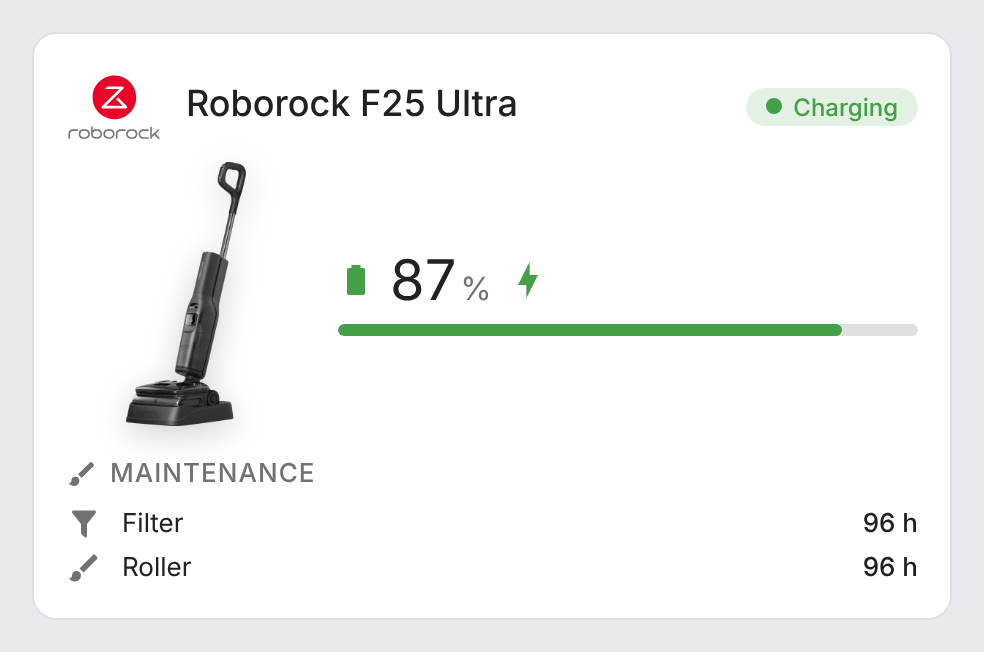
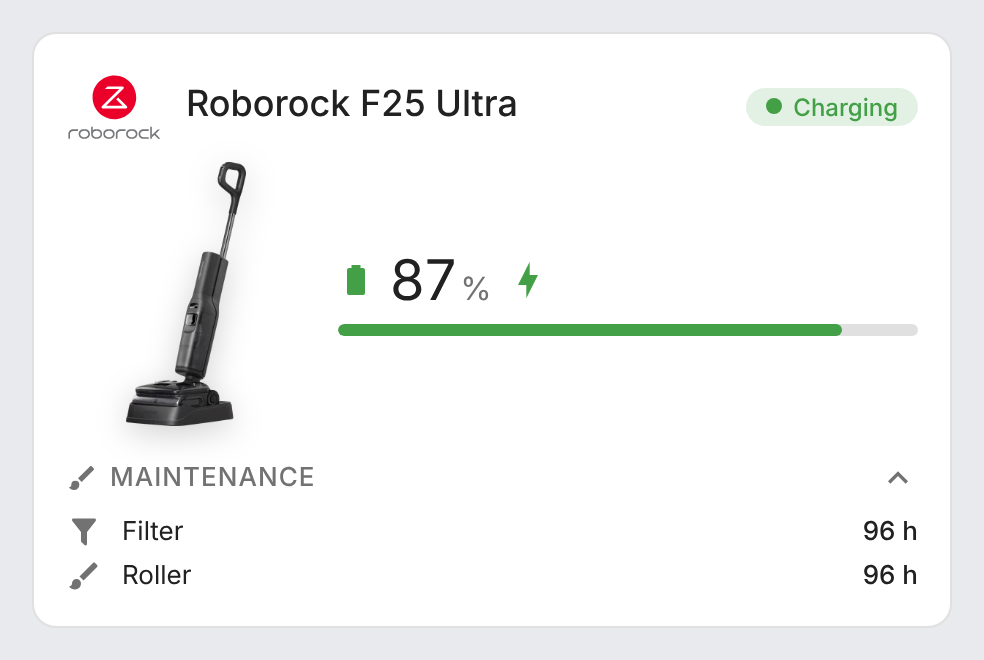
Collapsible sections, statistics and dock folded by default
Release 1.3.0.

Claude-Session: https://claude.ai/code/session_01BR93mfbPRnuFtK94DdtmVn

diff --git a/dist/roborock-card.js b/dist/roborock-card.js
@@ -7,7 +7,7 @@
  * device), so they work whatever the Home Assistant language or entity ids.
  */
 
-const VERSION = "1.2.2";
+const VERSION = "1.3.0";
[1 lines of base64/hex data omitted]
 const IMAGES = {
[1 lines of base64/hex data omitted]
@@ -15,6 +15,7 @@ const IMAGES = {
 };
 const ROBOROCK_SITE = "https://www.roborock.com";
 const PENDING_MS = 45000;
+const DEFAULT_COLLAPSED = ["stats", "dock"];
 
 const ICONS = {
   play: "M8,5.14V19.14L19,12.14L8,5.14Z",
@@ -50,6 +51,8 @@ const ICONS = {
   stats: "M22,21H2V3H4V19H6V10H10V19H12V6H16V19H18V14H22V21Z",
   map: "M15,19L9,16.89V5L15,7.11M20.5,3C20.44,3 20.39,3 20.34,3L15,5.1L9,3L3.36,4.9C3.15,4.97 3,5.15 3,5.38V20.5A0.5,0.5 0 0,0 3.5,21C3.55,21 3.61,21 3.66,20.97L9,18.9L15,21L20.64,19.1C20.85,19 21,18.85 21,18.62V3.5A0.5,0.5 0 0,0 20.5,3Z",
   alert: "M13 14H11V9H13M13 18H11V16H13M1 21H23L12 2L1 21Z",
+  chevron_down: "M7.41,8.58L12,13.17L16.59,8.58L18,10L12,16L6,10L7.41,8.58Z",
+  chevron_up: "M7.41,15.41L12,10.83L16.59,15.41L18,14L12,8L6,14L7.41,15.41Z",
   reset: "M12,4C14.1,4 16.1,4.8 17.6,6.3C20.7,9.4 20.7,14.5 17.6,17.6C15.8,19.5 13.3,20.2 10.9,19.9L11.4,17.9C13.1,18.1 14.9,17.5 16.2,16.2C18.5,13.9 18.5,10.1 16.2,7.7C15.1,6.6 13.5,6 12,6V10.6L7,5.6L12,0.6V4M6.3,17.6C3.7,15 3.3,11 5.1,7.9L6.6,9.4C5.5,11.6 5.9,14.4 7.8,16.2C8.3,16.7 8.9,17.1 9.6,17.4L9,19.4C8,19 7.1,18.4 6.3,17.6Z",
 };
 
@@ -126,6 +129,7 @@ const STRINGS = {
     show_consumables: "Show maintenance",
     show_stats: "Show statistics",
     show_map: "Show map",
+    collapsed: "Sections folded by default",
     crop: "Map crop (pixels)",
     map_size: "Map image size: {w} × {h} px. Values are in pixels of this image.",
     top: "Top",
@@ -268,6 +272,7 @@ const STRINGS = {
     show_consumables: "Afficher l'entretien",
     show_stats: "Afficher les statistiques",
     show_map: "Afficher la carte",
+    collapsed: "Sections repliées par défaut",
     crop: "Recadrage de la carte (pixels)",
     map_size: "Taille de l'image de la carte : {w} × {h} px. Les valeurs sont en pixels de cette image.",
     top: "Haut",
@@ -635,6 +640,13 @@ class RoborockBase extends HTMLElement {
     const { action, entity, label } = el.dataset;
     if (this._roomAction(action, entity, el.dataset.room)) return;
     if (action === "zoom_map") return this._zoomMap(entity);
+    if (action === "toggle_section") {
+      const key = el.dataset.section;
+      this._toggled = new Set(this._toggled);
+      if (this._toggled.has(key)) this._toggled.delete(key);
+      else this._toggled.add(key);
+      return this._update();
+    }
     if (action === "dock_toggle") {
       const on = this._isOn(entity);
       this._setPending(entity, on ? "off" : "on");
@@ -893,6 +905,9 @@ const FULL_STYLE = `
   .section-title { display: flex; align-items: center; gap: 6px; font-size: 13px; font-weight: 500; text-transform: uppercase;
                    letter-spacing: .04em; color: var(--secondary-text-color); margin-bottom: 8px; }
   .section-title .icon { width: 16px; height: 16px; }
+  .section-title.toggle { cursor: pointer; user-select: none; }
+  .section-title.toggle[aria-expanded="false"] { margin-bottom: 0; }
+  .section-title .chevron { margin-left: auto; width: 20px; height: 20px; }
   .routines { display: flex; flex-wrap: wrap; gap: 8px; }
   .routines .btn { font-weight: 400; padding: 6px 12px 6px 8px; }
   .routines .btn .icon { color: var(--rr-red); }
@@ -1032,11 +1047,34 @@ class RoborockCard extends RoborockBase {
     });
     items.sort((a, b) => a.name.localeCompare(b.name));
     return `<div>
-      <div class="section-title">${svgIcon(ICONS.routine)}${esc(this._t("routines"))}</div>
-      <div class="routines">${items
-        .map((r) => `<button class="btn" data-action="routine" data-entity="${r.id}" data-label="${esc(r.name)}">${svgIcon(ICONS.routine)}<span>${esc(r.name)}</span></button>`)
-        .join("")}</div>
+      ${this._sectionTitle("routines", ICONS.routine, this._t("routines"))}
+      ${
+        this._isCollapsed("routines")
+          ? ""
+          : `<div class="routines">${items
+              .map((r) => `<button class="btn" data-action="routine" data-entity="${r.id}" data-label="${esc(r.name)}">${svgIcon(ICONS.routine)}<span>${esc(r.name)}</span></button>`)
+              .join("")}</div>`
+      }
     </div>`;
+  }
+
+  // Collapsible sections: `collapsed` lists the sections folded by default (stats and dock unless
+  // set); a click on a section title folds or unfolds it for this card until the page is reloaded.
+  _isCollapsed(key) {
+    if (this._toggled?.has(key)) return !this._defaultCollapsed(key);
+    return this._defaultCollapsed(key);
+  }
+
+  _defaultCollapsed(key) {
+    const c = this._config.collapsed ?? DEFAULT_COLLAPSED;
+    return (Array.isArray(c) ? c : [c]).includes(key);
+  }
+
+  _sectionTitle(key, icon, label) {
+    const closed = this._isCollapsed(key);
+    return `<div class="section-title toggle" data-action="toggle_section" data-section="${key}" aria-expanded="${!closed}">${svgIcon(icon)}${esc(
+      label
+    )}${svgIcon(closed ? ICONS.chevron_down : ICONS.chevron_up, "chevron")}</div>`;
   }
 
   _tile(id, icon, label, value, cls = "") {
@@ -1072,9 +1110,8 @@ class RoborockCard extends RoborockBase {
     const actions = this._dockActions(dev);
     if (!tiles.length && !actions) return "";
     return `<div>
-      <div class="section-title">${svgIcon(ICONS.dock)}${esc(this._t("station"))}</div>
-      ${tiles.length ? `<div class="tiles">${tiles.join("")}</div>` : ""}
-      ${actions}
+      ${this._sectionTitle("dock", ICONS.dock, this._t("station"))}
+      ${this._isCollapsed("dock") ? "" : `${tiles.length ? `<div class="tiles">${tiles.join("")}</div>` : ""}${actions}`}
     </div>`;
   }
 
@@ -1125,8 +1162,8 @@ class RoborockCard extends RoborockBase {
     }
     if (!rows.length) return "";
     return `<div>
-      <div class="section-title">${svgIcon(ICONS.brush)}${esc(this._t("consumables"))}</div>
-      <div class="cons ${resets ? "with-reset" : ""}">${rows.join("")}</div>
+      ${this._sectionTitle("consumables", ICONS.brush, this._t("consumables"))}
+      ${this._isCollapsed("consumables") ? "" : `<div class="cons ${resets ? "with-reset" : ""}">${rows.join("")}</div>`}
     </div>`;
   }
 
@@ -1162,8 +1199,8 @@ class RoborockCard extends RoborockBase {
     if (valid(tTime) && num(tTime)) tiles.push(this._tile(tTime.entity_id, ICONS.clock, this._t("total_time"), fmtHours(hours(tTime))));
     if (!tiles.length) return "";
     return `<div>
-      <div class="section-title">${svgIcon(ICONS.stats)}${esc(this._t("statistics"))}</div>
-      <div class="tiles two">${tiles.join("")}</div>
+      ${this._sectionTitle("stats", ICONS.stats, this._t("statistics"))}
+      ${this._isCollapsed("stats") ? "" : `<div class="tiles two">${tiles.join("")}</div>`}
     </div>`;
   }
 
@@ -1403,7 +1440,7 @@ class RoborockEditorBase extends HTMLElement {
             v = config[k] = { ...v };
             for (const [sk, sv] of Object.entries(v)) if (sv === "" || sv === undefined || sv === null || sv === 0) delete v[sk];
             if (!Object.keys(v).length) delete config[k];
-          } else if (v === "" || v === undefined || v === null || (k in defaults && v === defaults[k])) delete config[k];
+          } else if (v === "" || v === undefined || v === null || (k in defaults && JSON.stringify(v) === JSON.stringify(defaults[k]))) delete config[k];
         }
         this._config = config;
         this.dispatchEvent(new CustomEvent("config-changed", { detail: { config }, bubbles: true, composed: true }));
@@ -1453,7 +1490,7 @@ class RoborockCardEditor extends RoborockEditorBase {
   }
 
   static get selects() {
-    return { show_map: "cleaning" };
+    return { show_map: "cleaning", collapsed: DEFAULT_COLLAPSED };
   }
 
   static extraFields(tr) {
@@ -1464,6 +1501,21 @@ class RoborockCardEditor extends RoborockEditorBase {
           select: {
             mode: "dropdown",
             options: ["never", "cleaning", "always"].map((v) => ({ value: v, label: tr(`map_${v}`) })),
+          },
+        },
+      },
+      {
+        name: "collapsed",
+        selector: {
+          select: {
+            multiple: true,
+            mode: "list",
+            options: [
+              ["routines", "routines"],
+              ["dock", "station"],
+              ["consumables", "consumables"],
+              ["stats", "statistics"],
+            ].map(([value, label]) => ({ value, label: tr(label) })),
           },
         },
       },

diff --git a/src/roborock-card.js b/src/roborock-card.js
@@ -15,6 +15,7 @@ const IMAGES = {
 };
 const ROBOROCK_SITE = "https://www.roborock.com";
 const PENDING_MS = 45000;
+const DEFAULT_COLLAPSED = ["stats", "dock"];
 
 const ICONS = {
   play: "M8,5.14V19.14L19,12.14L8,5.14Z",
@@ -50,6 +51,8 @@ const ICONS = {
   stats: "M22,21H2V3H4V19H6V10H10V19H12V6H16V19H18V14H22V21Z",
   map: "M15,19L9,16.89V5L15,7.11M20.5,3C20.44,3 20.39,3 20.34,3L15,5.1L9,3L3.36,4.9C3.15,4.97 3,5.15 3,5.38V20.5A0.5,0.5 0 0,0 3.5,21C3.55,21 3.61,21 3.66,20.97L9,18.9L15,21L20.64,19.1C20.85,19 21,18.85 21,18.62V3.5A0.5,0.5 0 0,0 20.5,3Z",
   alert: "M13 14H11V9H13M13 18H11V16H13M1 21H23L12 2L1 21Z",
+  chevron_down: "M7.41,8.58L12,13.17L16.59,8.58L18,10L12,16L6,10L7.41,8.58Z",
+  chevron_up: "M7.41,15.41L12,10.83L16.59,15.41L18,14L12,8L6,14L7.41,15.41Z",
   reset: "M12,4C14.1,4 16.1,4.8 17.6,6.3C20.7,9.4 20.7,14.5 17.6,17.6C15.8,19.5 13.3,20.2 10.9,19.9L11.4,17.9C13.1,18.1 14.9,17.5 16.2,16.2C18.5,13.9 18.5,10.1 16.2,7.7C15.1,6.6 13.5,6 12,6V10.6L7,5.6L12,0.6V4M6.3,17.6C3.7,15 3.3,11 5.1,7.9L6.6,9.4C5.5,11.6 5.9,14.4 7.8,16.2C8.3,16.7 8.9,17.1 9.6,17.4L9,19.4C8,19 7.1,18.4 6.3,17.6Z",
 };
 
@@ -126,6 +129,7 @@ const STRINGS = {
     show_consumables: "Show maintenance",
     show_stats: "Show statistics",
     show_map: "Show map",
+    collapsed: "Sections folded by default",
     crop: "Map crop (pixels)",
     map_size: "Map image size: {w} × {h} px. Values are in pixels of this image.",
     top: "Top",
@@ -268,6 +272,7 @@ const STRINGS = {
     show_consumables: "Afficher l'entretien",
     show_stats: "Afficher les statistiques",
     show_map: "Afficher la carte",
+    collapsed: "Sections repliées par défaut",
     crop: "Recadrage de la carte (pixels)",
     map_size: "Taille de l'image de la carte : {w} × {h} px. Les valeurs sont en pixels de cette image.",
     top: "Haut",
@@ -635,6 +640,13 @@ class RoborockBase extends HTMLElement {
     const { action, entity, label } = el.dataset;
     if (this._roomAction(action, entity, el.dataset.room)) return;
     if (action === "zoom_map") return this._zoomMap(entity);
+    if (action === "toggle_section") {
+      const key = el.dataset.section;
+      this._toggled = new Set(this._toggled);
+      if (this._toggled.has(key)) this._toggled.delete(key);
+      else this._toggled.add(key);
+      return this._update();
+    }
     if (action === "dock_toggle") {
       const on = this._isOn(entity);
       this._setPending(entity, on ? "off" : "on");
@@ -893,6 +905,9 @@ const FULL_STYLE = `
   .section-title { display: flex; align-items: center; gap: 6px; font-size: 13px; font-weight: 500; text-transform: uppercase;
                    letter-spacing: .04em; color: var(--secondary-text-color); margin-bottom: 8px; }
   .section-title .icon { width: 16px; height: 16px; }
+  .section-title.toggle { cursor: pointer; user-select: none; }
+  .section-title.toggle[aria-expanded="false"] { margin-bottom: 0; }
+  .section-title .chevron { margin-left: auto; width: 20px; height: 20px; }
   .routines { display: flex; flex-wrap: wrap; gap: 8px; }
   .routines .btn { font-weight: 400; padding: 6px 12px 6px 8px; }
   .routines .btn .icon { color: var(--rr-red); }
@@ -1032,11 +1047,34 @@ class RoborockCard extends RoborockBase {
     });
     items.sort((a, b) => a.name.localeCompare(b.name));
     return `<div>
-      <div class="section-title">${svgIcon(ICONS.routine)}${esc(this._t("routines"))}</div>
-      <div class="routines">${items
-        .map((r) => `<button class="btn" data-action="routine" data-entity="${r.id}" data-label="${esc(r.name)}">${svgIcon(ICONS.routine)}<span>${esc(r.name)}</span></button>`)
-        .join("")}</div>
+      ${this._sectionTitle("routines", ICONS.routine, this._t("routines"))}
+      ${
+        this._isCollapsed("routines")
+          ? ""
+          : `<div class="routines">${items
+              .map((r) => `<button class="btn" data-action="routine" data-entity="${r.id}" data-label="${esc(r.name)}">${svgIcon(ICONS.routine)}<span>${esc(r.name)}</span></button>`)
+              .join("")}</div>`
+      }
     </div>`;
+  }
+
+  // Collapsible sections: `collapsed` lists the sections folded by default (stats and dock unless
+  // set); a click on a section title folds or unfolds it for this card until the page is reloaded.
+  _isCollapsed(key) {
+    if (this._toggled?.has(key)) return !this._defaultCollapsed(key);
+    return this._defaultCollapsed(key);
+  }
+
+  _defaultCollapsed(key) {
+    const c = this._config.collapsed ?? DEFAULT_COLLAPSED;
+    return (Array.isArray(c) ? c : [c]).includes(key);
+  }
+
+  _sectionTitle(key, icon, label) {
+    const closed = this._isCollapsed(key);
+    return `<div class="section-title toggle" data-action="toggle_section" data-section="${key}" aria-expanded="${!closed}">${svgIcon(icon)}${esc(
+      label
+    )}${svgIcon(closed ? ICONS.chevron_down : ICONS.chevron_up, "chevron")}</div>`;
   }
 
   _tile(id, icon, label, value, cls = "") {
@@ -1072,9 +1110,8 @@ class RoborockCard extends RoborockBase {
     const actions = this._dockActions(dev);
     if (!tiles.length && !actions) return "";
     return `<div>
-      <div class="section-title">${svgIcon(ICONS.dock)}${esc(this._t("station"))}</div>
-      ${tiles.length ? `<div class="tiles">${tiles.join("")}</div>` : ""}
-      ${actions}
+      ${this._sectionTitle("dock", ICONS.dock, this._t("station"))}
+      ${this._isCollapsed("dock") ? "" : `${tiles.length ? `<div class="tiles">${tiles.join("")}</div>` : ""}${actions}`}
     </div>`;
   }
 
@@ -1125,8 +1162,8 @@ class RoborockCard extends RoborockBase {
     }
     if (!rows.length) return "";
     return `<div>
-      <div class="section-title">${svgIcon(ICONS.brush)}${esc(this._t("consumables"))}</div>
-      <div class="cons ${resets ? "with-reset" : ""}">${rows.join("")}</div>
+      ${this._sectionTitle("consumables", ICONS.brush, this._t("consumables"))}
+      ${this._isCollapsed("consumables") ? "" : `<div class="cons ${resets ? "with-reset" : ""}">${rows.join("")}</div>`}
     </div>`;
   }
 
@@ -1162,8 +1199,8 @@ class RoborockCard extends RoborockBase {
     if (valid(tTime) && num(tTime)) tiles.push(this._tile(tTime.entity_id, ICONS.clock, this._t("total_time"), fmtHours(hours(tTime))));
     if (!tiles.length) return "";
     return `<div>
-      <div class="section-title">${svgIcon(ICONS.stats)}${esc(this._t("statistics"))}</div>
-      <div class="tiles two">${tiles.join("")}</div>
+      ${this._sectionTitle("stats", ICONS.stats, this._t("statistics"))}
+      ${this._isCollapsed("stats") ? "" : `<div class="tiles two">${tiles.join("")}</div>`}
     </div>`;
   }
 
@@ -1403,7 +1440,7 @@ class RoborockEditorBase extends HTMLElement {
             v = config[k] = { ...v };
             for (const [sk, sv] of Object.entries(v)) if (sv === "" || sv === undefined || sv === null || sv === 0) delete v[sk];
             if (!Object.keys(v).length) delete config[k];
-          } else if (v === "" || v === undefined || v === null || (k in defaults && v === defaults[k])) delete config[k];
+          } else if (v === "" || v === undefined || v === null || (k in defaults && JSON.stringify(v) === JSON.stringify(defaults[k]))) delete config[k];
         }
         this._config = config;
         this.dispatchEvent(new CustomEvent("config-changed", { detail: { config }, bubbles: true, composed: true }));
@@ -1453,7 +1490,7 @@ class RoborockCardEditor extends RoborockEditorBase {
   }
 
   static get selects() {
-    return { show_map: "cleaning" };
+    return { show_map: "cleaning", collapsed: DEFAULT_COLLAPSED };
   }
 
   static extraFields(tr) {
@@ -1464,6 +1501,21 @@ class RoborockCardEditor extends RoborockEditorBase {
           select: {
             mode: "dropdown",
             options: ["never", "cleaning", "always"].map((v) => ({ value: v, label: tr(`map_${v}`) })),
+          },
+        },
+      },
+      {
+        name: "collapsed",
+        selector: {
+          select: {
+            multiple: true,
+            mode: "list",
+            options: [
+              ["routines", "routines"],
+              ["dock", "station"],
+              ["consumables", "consumables"],
+              ["stats", "statistics"],
+            ].map(([value, label]) => ({ value, label: tr(label) })),
           },
         },
       },

diff --git a/README.md b/README.md
@@ -31,6 +31,7 @@ The cards are built on top of the [Roborock integration](https://www.home-assist
 - Dock: clean and dirty water tanks, detergent, auto-empty mode, mop drying, and Empty bin / Wash mop / Dry mop buttons
 - Maintenance: main brush, side brush, filter, sensors, dock strainer… with remaining time and a reset button (with confirmation) when the integration provides one
 - Statistics: last clean, number of cleanings, total area and time
+- Collapsible sections (statistics and dock folded by default)
 - Map of the current floor while the robot is cleaning (or always, or never), with optional cropping, enlarged full screen on click
 - Click any value to open its Home Assistant history (more-info dialog)
 - Click the Roborock logo to open [roborock.com](https://www.roborock.com)
@@ -100,6 +101,9 @@ show_dock: true
 show_consumables: true
 show_stats: true
 show_map: cleaning
+collapsed:
+  - stats
+  - dock
 crop:
   top: 170
   bottom: 190
@@ -135,6 +139,7 @@ language: fr
 | `show_consumables` | full | `true` | Maintenance (remaining time of brushes, filter, sensors…) |
 | `show_stats` | full | `true` | Cleaning statistics |
 | `show_map` | full | `cleaning` | Map of the current floor: `cleaning` (only while the robot is cleaning), `always` (or `true`) or `never` (or `false`) |
+| `collapsed` | full | `[stats, dock]` | Sections folded by default, among `routines`, `dock`, `consumables` and `stats` (`[]` to unfold everything). Click a section title to fold or unfold it |
 | `crop` | full | — | Crop the map, in pixels of the map image: `top`, `bottom`, `left` and/or `right` (see below) |
 | `language` | both | Auto | Force language: `fr` or `en` (auto-detects from HA settings) |
 

diff --git a/CHANGELOG.md b/CHANGELOG.md
@@ -1,5 +1,11 @@
 # Changelog
 
+## 1.3.0
+
+### ✨ Features
+
+- **Collapsible sections**: click the title of Routines, Dock, Maintenance or Statistics to fold or unfold it. Statistics and Dock are folded by default; choose the sections folded by default with the new `collapsed` option (also in the visual editor, `collapsed: []` to unfold everything).
+
 ## 1.2.2
 
 ### 🐛 Fixes
